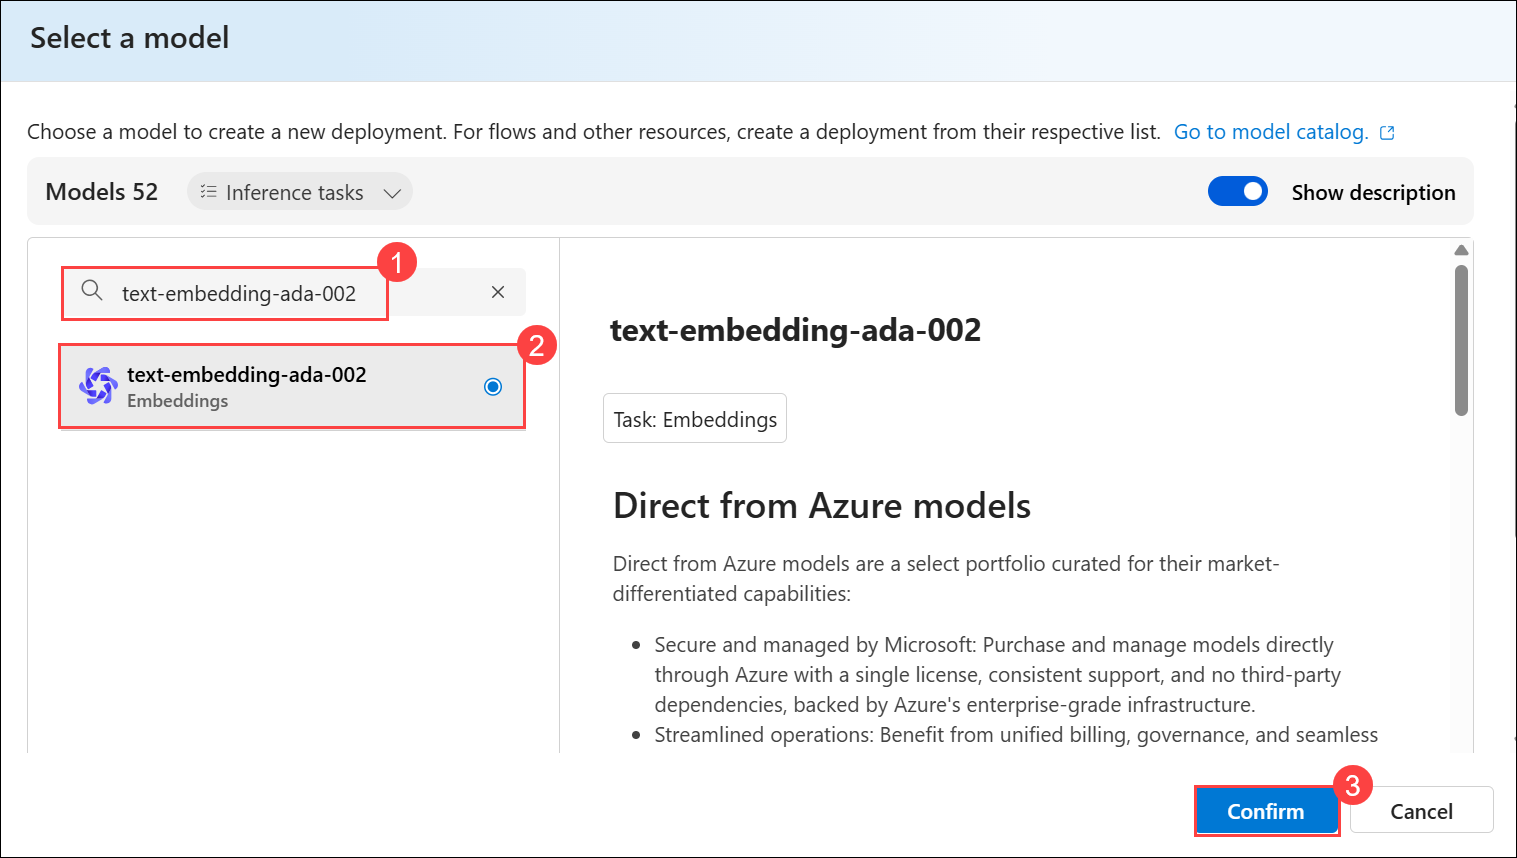
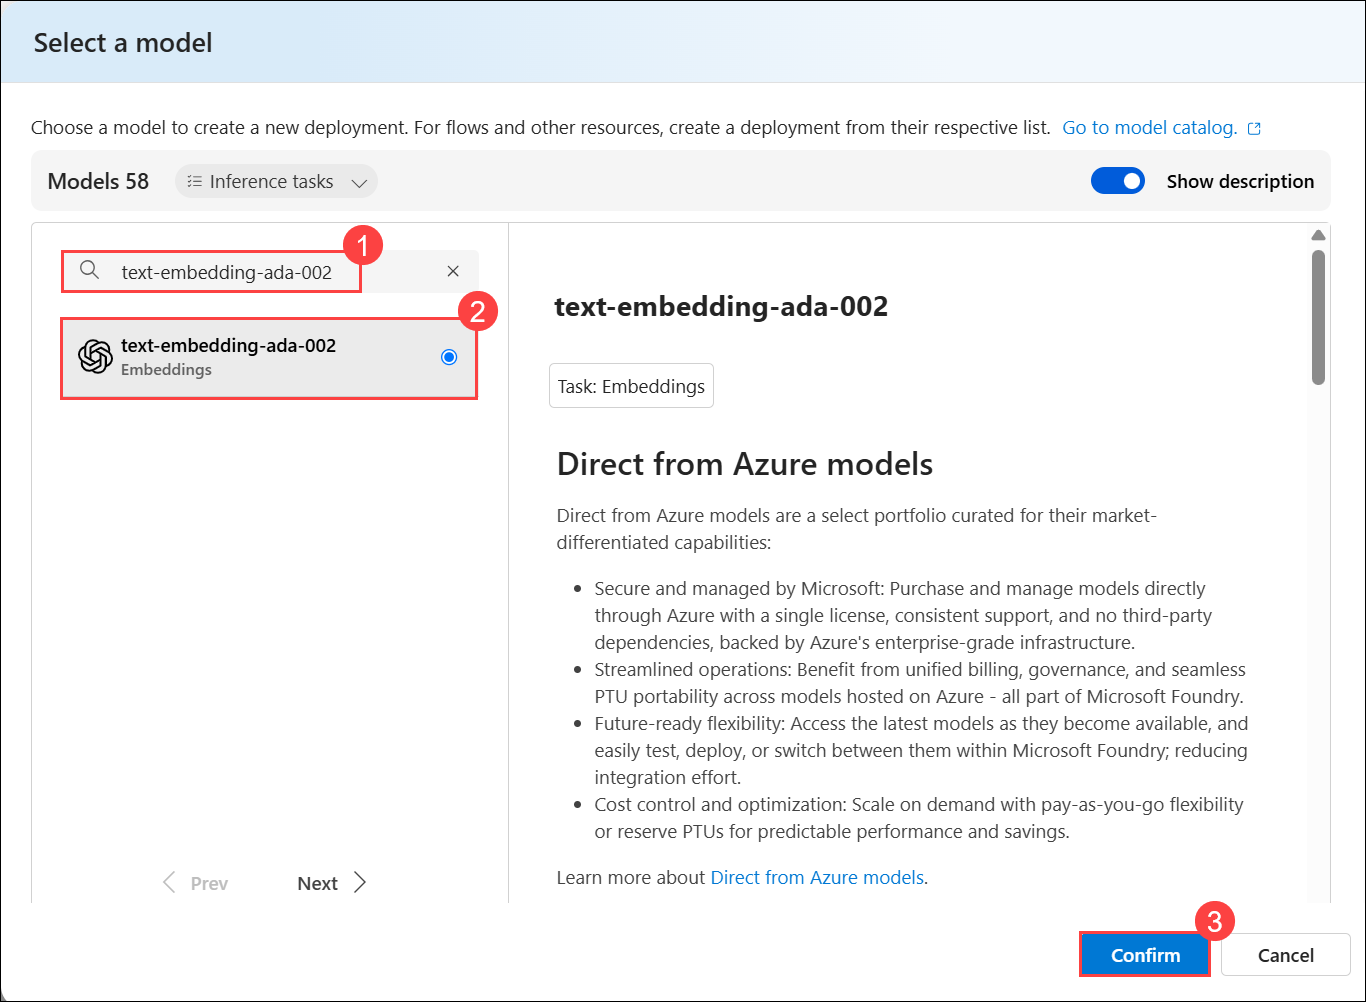
Update lab exercises and refresh supporting screenshots

diff --git a/Exercise 1.md b/Exercise 1.md
@@ -85,6 +85,12 @@ Azure OpenAI offers a web-based portal called the **Microsoft Foundry portal** f
 
     ![](./media/lab1-12-2.png)
 
+    > **Note**: If you are redirected to the new Microsoft Foundry portal, **toggle off** the switch located in the top-right corner. When the feedback pop-up appears, select **Continue without feedback**. You will then be redirected to the previous portal experience.
+    >
+    >![](media/foundry-toggle.png)
+    >
+    >![](media/feedbackpopup.png)
+
 1. In the Microsoft Foundry portal, navigate to **Deployments (1)**, select **+ Deploy model (2)**, and then choose **Deploy base model (3)**.
 
     ![](./media/lab1-12-3.png)
@@ -363,4 +369,4 @@ In this exercise, you have accomplished the following:
 
 ### Click on **Next >>** to proceed to the next exercise.
 
-![](./media/lab-02.png)
+![](./media/page_02.png)

diff --git a/Exercise 2.md b/Exercise 2.md
@@ -48,6 +48,8 @@ In this task, you will create a new Azure Web App resource. The web app will be 
 
 1. On the **Database** tab, keep the default settings and click on **Next : Container >**.
 
+    ![](./media/database.png)
+
 1. On the **Container** tab, enter the following details and click on **Review + create (4)** button.
 
    - Image Source: Select **Other container registries (1)**